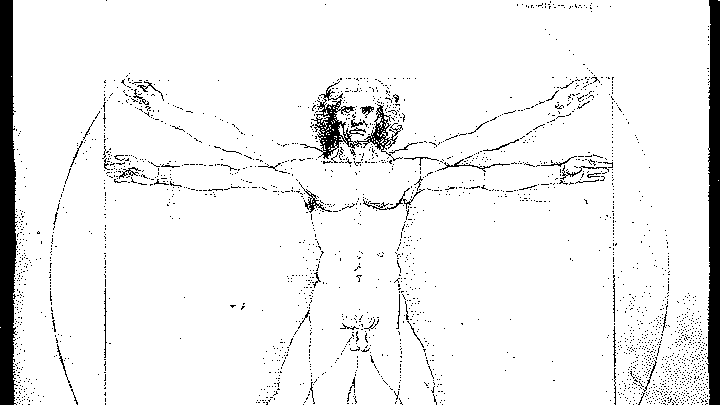
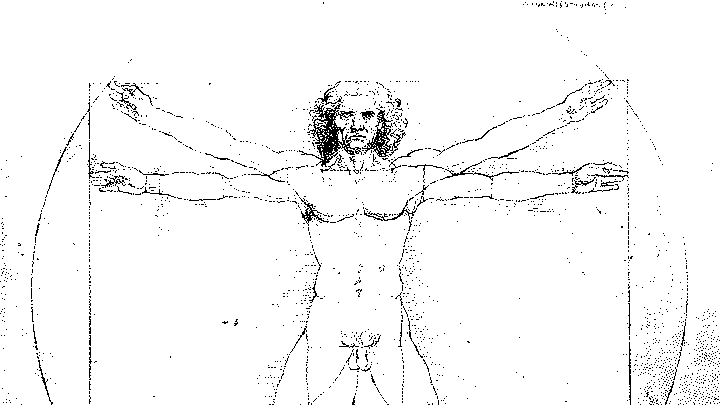
Navbar küresi 1:1 ve keskin; hero rötuşları
- Navbar küresi: Quarto'nun .navbar-logo padding'i tuvali 42x46'ya
  sıkıştırıp yumurta gibi gösteriyordu. padding 0, flex-shrink 0,
  aspect-ratio 1/1; boyut CSS'ten okunuyor, küçük kürede 2x süper örnekleme
- Başlığın alt uzantıları ile açıklama arasındaki boşluk artırıldı
- Vitruvius tuvali: kenardaki siyah şeritleri atmak için yeniden dither
- memory.md, README, KAYNAK.md: tasarım v5 belgelendi

diff --git a/assets/js/kure.js b/assets/js/kure.js
@@ -2,7 +2,7 @@
  * Harici kütüphane yok: ortografik izdüşüm + arka yüz kırpma, <canvas> üzerinde.
  * Kara verisi: Natural Earth 110m (kamu malı), world-atlas üzerinden; 0.1° hassasiyet.
  * Yerleşim:
- *   - navbar: .navbar-logo <img> aynı boyutta bir <canvas> ile değiştirilir (neon palet, sabit)
+ *   - navbar: .navbar-logo <img> bir <canvas> ile değiştirilir; boyut CSS'ten (neon palet, sabit)
  *   - sayfa:  <div class="recep-kure" data-hiz="…"> içine yerleşir (renkler CSS değişkenlerinden)
  * prefers-reduced-motion: tek kare çizilir, döndürülmez.
  */
@@ -31,16 +31,18 @@
 
   function kur(canvas, secenek) {
     const ctx = canvas.getContext("2d");
-    const kucuk = secenek.boyut < 80;
+    let kucuk = false;                             // navbar boyutu (< 80 px): ince çizgiler, halka yok
     let renk = secenek.renk ? secenek.renk() : NEON;
     let lambda0 = TURKIYE[0];                      // Türkiye önde başlar
     let son = performance.now(), gorunur = true, dpr = 1, boyut = 0;
 
     function olcekle() {
-      dpr = Math.min(window.devicePixelRatio || 1, 2);
-      boyut = secenek.boyut || canvas.clientWidth || 300;
+      // boyut CSS'ten gelir (navbar: 42/36 px, sayfa: kapsayıcı genişliği)
+      boyut = Math.round(canvas.clientWidth) || 300;
+      kucuk = boyut < 80;
+      // küçük kürede süper örnekleme: 1x ekranda da keskin kenarlar
+      dpr = Math.min((window.devicePixelRatio || 1) * (kucuk ? 2 : 1), 4);
       canvas.width = Math.round(boyut * dpr); canvas.height = Math.round(boyut * dpr);
-      canvas.style.width = boyut + "px"; canvas.style.height = boyut + "px";
     }
 
     function ciz(zaman) {
@@ -129,7 +131,7 @@
     if ("IntersectionObserver" in window) {
       new IntersectionObserver(e => { gorunur = e[0].isIntersecting; }).observe(canvas);
     }
-    window.addEventListener("resize", () => { if (!secenek.boyut) { olcekle(); ciz(performance.now()); } });
+    window.addEventListener("resize", () => { if (Math.round(canvas.clientWidth) !== boyut) { olcekle(); ciz(performance.now()); } });
     ciz(performance.now());
     if (!azHareket) requestAnimationFrame(dongu);
   }
@@ -146,9 +148,8 @@
       c.className = "navbar-logo recep-kure-canvas";
       c.setAttribute("role", "img");
       c.setAttribute("aria-label", "dönen dünya küresi; Türkiye kırmızı noktayla işaretli");
-      const b = Math.round(img.getBoundingClientRect().height) || 46;
       img.replaceWith(c);
-      kur(c, { boyut: b, hiz: 0.018 });
+      kur(c, { hiz: 0.018 });
     });
     // sayfa içi büyük küre(ler)
     document.querySelectorAll(".recep-kure").forEach(kap => {

diff --git a/assets/js/kure.src.js b/assets/js/kure.src.js
@@ -2,7 +2,7 @@
  * Harici kütüphane yok: ortografik izdüşüm + arka yüz kırpma, <canvas> üzerinde.
  * Kara verisi: Natural Earth 110m (kamu malı), world-atlas üzerinden; 0.1° hassasiyet.
  * Yerleşim:
- *   - navbar: .navbar-logo <img> aynı boyutta bir <canvas> ile değiştirilir (neon palet, sabit)
+ *   - navbar: .navbar-logo <img> bir <canvas> ile değiştirilir; boyut CSS'ten (neon palet, sabit)
  *   - sayfa:  <div class="recep-kure" data-hiz="…"> içine yerleşir (renkler CSS değişkenlerinden)
  * prefers-reduced-motion: tek kare çizilir, döndürülmez.
  */
@@ -31,16 +31,18 @@
 
   function kur(canvas, secenek) {
     const ctx = canvas.getContext("2d");
-    const kucuk = secenek.boyut < 80;
+    let kucuk = false;                             // navbar boyutu (< 80 px): ince çizgiler, halka yok
     let renk = secenek.renk ? secenek.renk() : NEON;
     let lambda0 = TURKIYE[0];                      // Türkiye önde başlar
     let son = performance.now(), gorunur = true, dpr = 1, boyut = 0;
 
     function olcekle() {
-      dpr = Math.min(window.devicePixelRatio || 1, 2);
-      boyut = secenek.boyut || canvas.clientWidth || 300;
+      // boyut CSS'ten gelir (navbar: 42/36 px, sayfa: kapsayıcı genişliği)
+      boyut = Math.round(canvas.clientWidth) || 300;
+      kucuk = boyut < 80;
+      // küçük kürede süper örnekleme: 1x ekranda da keskin kenarlar
+      dpr = Math.min((window.devicePixelRatio || 1) * (kucuk ? 2 : 1), 4);
       canvas.width = Math.round(boyut * dpr); canvas.height = Math.round(boyut * dpr);
-      canvas.style.width = boyut + "px"; canvas.style.height = boyut + "px";
     }
 
     function ciz(zaman) {
@@ -129,7 +131,7 @@
     if ("IntersectionObserver" in window) {
       new IntersectionObserver(e => { gorunur = e[0].isIntersecting; }).observe(canvas);
     }
-    window.addEventListener("resize", () => { if (!secenek.boyut) { olcekle(); ciz(performance.now()); } });
+    window.addEventListener("resize", () => { if (Math.round(canvas.clientWidth) !== boyut) { olcekle(); ciz(performance.now()); } });
     ciz(performance.now());
     if (!azHareket) requestAnimationFrame(dongu);
   }
@@ -146,9 +148,8 @@
       c.className = "navbar-logo recep-kure-canvas";
       c.setAttribute("role", "img");
       c.setAttribute("aria-label", "dönen dünya küresi; Türkiye kırmızı noktayla işaretli");
-      const b = Math.round(img.getBoundingClientRect().height) || 46;
       img.replaceWith(c);
-      kur(c, { boyut: b, hiz: 0.018 });
+      kur(c, { hiz: 0.018 });
     });
     // sayfa içi büyük küre(ler)
     document.querySelectorAll(".recep-kure").forEach(kap => {

diff --git a/theme.scss b/theme.scss
@@ -184,7 +184,11 @@ blockquote { font-style: italic; border-left: 1px solid $recep-ink; padding-left
 .navbar-brand.navbar-brand-logo { padding-left: 2rem; padding-right: .6rem; }
 .navbar-brand:not(.navbar-brand-logo) { padding-right: 2rem; }
 
-.navbar-brand .navbar-logo { height: 42px; width: 42px; max-height: none; display: block; }
+// küre tuvali: Quarto'nun .navbar-logo padding'i ve flex daralması 1:1 oranı bozmasın
+.navbar-brand .navbar-logo {
+  height: 42px; width: 42px; max-height: none; display: block;
+  padding: 0; flex-shrink: 0; aspect-ratio: 1 / 1; object-fit: contain;
+}
 
 // [recep] — logodaki kalın kare köşeli parantezler (marka öğesi)
 .navbar-brand .navbar-title {
@@ -343,7 +347,7 @@ body:has(.recep-dhero) #title-block-header { display: none; }
 
 .recep-dhero-alt-satir {
   display: flex; justify-content: space-between; align-items: flex-start; gap: 1.5rem;
-  margin-top: calc(var(--baslik) * .42 + 1.25rem);
+  margin-top: calc(var(--baslik) * .56 + 1.25rem);   // taşma + alt uzantılar (p, j, y)
 }
 // Katman 2 — açıklama
 .recep-dhero-alt {

diff --git a/memory.md b/memory.md
@@ -1,7 +1,7 @@
 # RECEP web sitesi — proje hafızası
 
 > Her oturumun başında bu dosya okunur. Her önemli karar ve tamamlanan aşamadan sonra güncellenir.
-> Son güncelleme: 2026-09-25 (tasarım v4: Elegant Cyber-Renaissance, DynamicHero)
+> Son güncelleme: 2026-09-26 (tasarım v5: küre ana sayfa, 1-bit art canvas hero, navbar küresi 1:1)
 
 ## ✅ YAYIN DURUMU: AÇIK (2026-09-25 yeniden açıldı)
 
@@ -24,7 +24,17 @@
 - **GitHub:** https://github.com/ContinentOfGrinch/recep (public, `main`) → canlı: https://continentofgrinch.github.io/recep/ . Pages kaynağı = GitHub Actions. İleride Tunç Durmaz / lab organizasyonuna devredilecek (README'de adımlar).
 - **Araçlar:** Quarto 1.10.18 (yerel = CI), R 4.5.1, Node 24. `gh` CLI yok → GitHub API için `git credential fill` token'ı + curl (Türkçe JSON → `--data-binary @dosya.json`).
 
-## 2a. TASARIM v4 — "Elegant Cyber-Renaissance / High-End Editorial Brutalism" (2026-09-25, GÜNCEL)
+## 2b. TASARIM v5 — küre ana sayfa + 1-bit "art canvas" hero (2026-09-26, GÜNCEL; 2a'daki filigran/görsel/ana sayfa maddelerinin YERİNE geçer)
+
+Kullanıcı: soluk filigran "yıkanmış, silik" — Digital Brutalism / Post-Internet Art, "yüksek sınıf dijital sanat galerisi" istiyor. Ana sayfa diğerlerinden farklı olmalı.
+- **Ana sayfa (`.recep-khero`, hero.lua `kureHero`):** ortada dönen büyük küre (`.recep-kure`, `min(56vh,540px,86vw)`, çerçevesiz), altında "recep" Inter 900, grup adı Lora italik, `lat 39.0 · lon 35.2 · ● türkiye` Space Mono. Altında butonlar + 7 kart.
+- **Alt sayfalar (`.recep-dhero`):** sütun genişliğinde (max 64rem) TAM OPAK tuval; bölüm index 16:9 (`buyuk`), alt sayfa 21:9 (`orta`). Üstte meta satırı (`/yol` · `1-bit · 720×405`), altta açıklama (Lora) + künye (sağda, Space Mono).
+- **1-bit görseller:** `assets/sanat/*.png` 720×405, Atkinson dither, kaynaktan 16:9 kırpma. Betik: scratchpad `sanat/dither2.html` + `dither2-surucu.mjs` (parametreler: genişlik, kontrast, parlaklık, cx, cy, yakınlaştırma). Vitruvius `2.4, 30, .5, .33, 1.06` (yakınlaştırma = kenardaki siyah şeritleri atar). WebP'ler SİLİNDİ.
+- **Renk:** img `grayscale(100%) contrast(200%)`, `image-rendering: pixelated`, `mix-blend-mode` tuval zemini ile: açık `#0033FF` + `screen` (kobalt/beyaz), gece `#ECEAE4` + `multiply` (zifiri/kırık beyaz). Değişkenler `$recep-tuval-zemin`, `$recep-tuval-karisim`.
+- **Başlık:** sol alt köşeye demirli, `translateY(--baslik × .42)` ile tuvalden taşar; `<span>` zemin renginde levha (`box-decoration-break: clone`). Boyut container query: `--baslik` buyuk `clamp(3.2rem,14cqi,9rem)`, orta `clamp(2.6rem,9cqi,6rem)`. Açıklama boşluğu `--baslik × .56 + 1.25rem`.
+- **Navbar küresi:** Quarto `.navbar-logo { padding-right: 4px }` + border-box küreyi yumurtaya çeviriyordu → `padding:0; flex-shrink:0; aspect-ratio:1/1`. Boyut artık CSS'ten okunur (42/36 px), küçük kürede 2× süper örnekleme.
+
+## 2a. TASARIM v4 — "Elegant Cyber-Renaissance / High-End Editorial Brutalism" (2026-09-25; filigran/görsel/ana sayfa maddeleri 2b ile DEĞİŞTİ)
 
 Kullanıcı: önceki neon kutular, pikselli yeşil çerçeveler, glitch/tarama çizgisi ve "REC" terminal pencereleri "ucuz ve ürkütücü". **Tüm site** zarif, çerçevesiz dile geçirildi (Nous AI / Hermes-Agent estetiği).
 

diff --git a/README.md b/README.md
@@ -45,16 +45,16 @@ Başlıklar küçük harfle yazılır. **R kodu içeren sayfa** eklediyseniz yer
 - Gece (varsayılan): `#05080D` zemin, `#ECEAE4` metin. Açık: kırık beyaz `#F4F2EC` zemin, zifiri `#0A0A0A` metin. Neon yeşil yalnızca logoda.
 - Tipografi 3 katman: **Inter 900** (yalnızca dev sayfa başlıkları ve logo; -0.06em) · **Lora** (tüm alt başlıklar, gövde, açıklamalar) · **Space Mono** (menü, meta etiketleri, butonlar, kod). CSS değişkenleri `--font-brutal`, `--font-editorial`, `--font-terminal` ve aynı adlı yardımcı sınıflar. Fontlar kendi sunucumuzda (`assets/fonts/`, SIL OFL 1.1).
 - Marka dosyaları: `assets/marka/` (amblemler, yatay logolar). Navbar'daki dönen küre: `assets/js/kure.js`.
-- **DynamicHero** (`_extensions/recep/hero/`, `_quarto.yml` içinde `filters: [hero]`): her sayfanın üstüne otomatik başlık alanı ekler. Arka planda sekmeye özgü Rönesans eseri çerçevesiz, gri tonlu, soluk bir filigran olarak durur; önde dev başlık (Inter 900), altında açıklama (Lora). Eser sayfanın klasöründen otomatik seçilir:
+- **DynamicHero** (`_extensions/recep/hero/`, `_quarto.yml` içinde `filters: [hero]`): her sayfanın üstüne otomatik başlık alanı ekler. Ana sayfada ortada dönen dünya küresi; diğer sayfalarda sekmeye özgü Rönesans eseri tam opak, 1-bit dither bir tuval olarak durur ve dev başlık (Inter 900) tuvalin sol alt köşesine demirlenir; altında açıklama (Lora). Eser sayfanın klasöründen otomatik seçilir:
 
   | sekme | eser |
   |---|---|
-  | ana sayfa, ekip | Raphael — Atina Okulu |
+  | ekip, 404 | Raphael — Atina Okulu |
   | haberler, iletişim | Holbein — Elçiler |
   | veri ve kod, araçlar | Da Vinci — Vitruvius Adamı |
   | proje, çıktılar | Michelangelo — Adem'in Yaratılışı |
 
-  Başlık `title`, alt satır `description` alanından gelir. İsteğe bağlı front matter: `hero: false`, `hero-eser`, `hero-baslik`, `hero-boyut: tam | buyuk | orta`. Görseller `assets/sanat/` (kaynaklar `KAYNAK.md`).
+  Başlık `title`, alt satır `description` alanından gelir. İsteğe bağlı front matter: `hero: false`, `hero-eser`, `hero-baslik`, `hero-boyut: buyuk (16:9) | orta (21:9)`. Görseller `assets/sanat/` (kaynaklar `KAYNAK.md`).
 
 ## yayın
 

diff --git a/assets/sanat/KAYNAK.md b/assets/sanat/KAYNAK.md
@@ -1,15 +1,15 @@
 # sanat eserleri — kaynak ve işleme
 
 Tüm eserler **kamu malıdır** (public domain) ve Wikimedia Commons'tan alınmıştır.
-Sitede `DynamicHero` filtresi (`_extensions/recep/hero/`) tarafından her sayfanın başlığının
-arkasında çerçevesiz, soluk bir filigran olarak kullanılır.
+Sitede `DynamicHero` filtresi (`_extensions/recep/hero/`) tarafından alt sayfaların başındaki
+tam opak "art canvas" tuvalinde kullanılır (ana sayfada eser yok, dönen küre var).
 
 | dosya | eser | sekmeler | Commons dosyası |
 |---|---|---|---|
-| athens.webp | Raphael, *Atina Okulu*, 1509–1511 | ana sayfa, ekip, 404 | "The School of Athens" by Raffaello Sanzio da Urbino.jpg |
-| ambassadors.webp | Hans Holbein (Genç), *Elçiler*, 1533 | haberler, iletişim | Hans Holbein the Younger - The Ambassadors - Google Art Project.jpg |
-| vitruvian.webp | Leonardo da Vinci, *Vitruvius Adamı*, y. 1490 | veri ve kod, araçlar | Da Vinci Vitruve Luc Viatour.jpg |
-| adam.webp | Michelangelo, *Adem'in Yaratılışı*, y. 1508–1512 | proje, çıktılar | Michelangelo - Creation of Adam (cropped).jpg |
+| athens.png | Raphael, *Atina Okulu*, 1509–1511 | ekip, 404 | "The School of Athens" by Raffaello Sanzio da Urbino.jpg |
+| ambassadors.png | Hans Holbein (Genç), *Elçiler*, 1533 | haberler, iletişim | Hans Holbein the Younger - The Ambassadors - Google Art Project.jpg |
+| vitruvian.png | Leonardo da Vinci, *Vitruvius Adamı*, y. 1490 | veri ve kod, araçlar | Da Vinci Vitruve Luc Viatour.jpg |
+| adam.png | Michelangelo, *Adem'in Yaratılışı*, y. 1508–1512 | proje, çıktılar | Michelangelo - Creation of Adam (cropped).jpg |
 
-İşleme: yüksek çözünürlüklü asıldan 1300–2000 px'e küçültme → gri tonlama (hafif kontrast) → WebP (167–368 KB).
-Değiştirmek için dosyayı aynı adla bu klasöre koyun; odak noktası `hero.lua` içindeki `odak` alanındadır.
+İşleme: yüksek çözünürlüklü asıldan 16:9 kırpma → 720×405 → kontrast → Atkinson dither → 1-bit PNG (7–29 KB).
+Değiştirmek için dosyayı aynı adla bu klasöre koyun; renk tuval zemini ve `mix-blend-mode` ile verilir (`$recep-tuval-*`).
